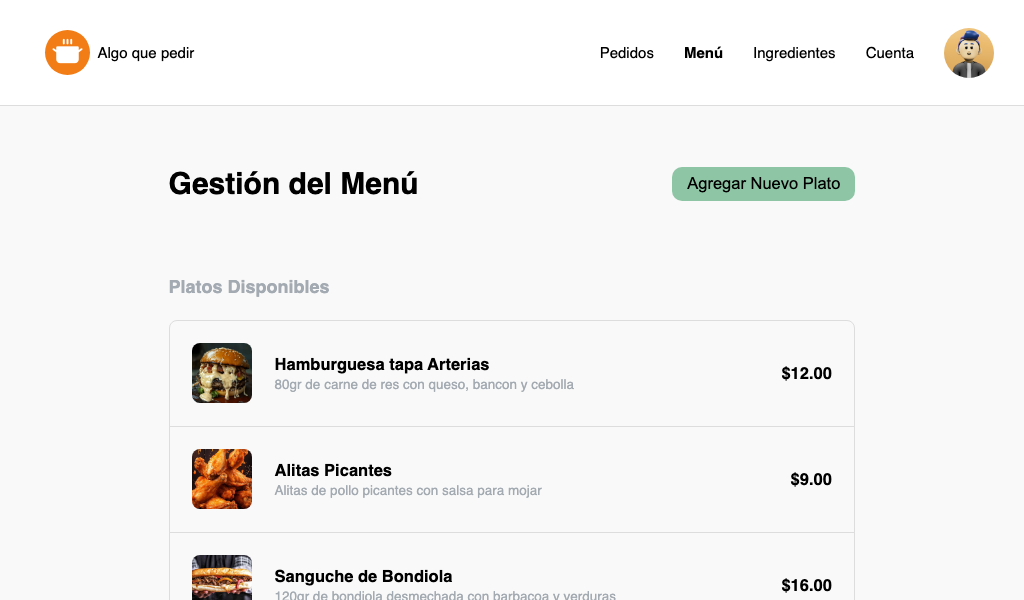
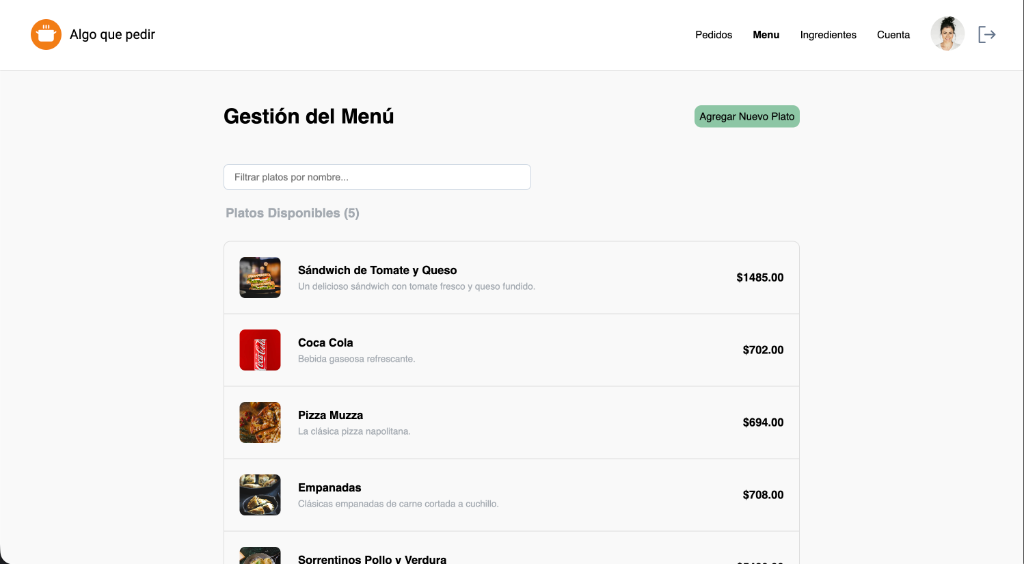
feat(projects): actualizar captura de AlgoQuePedir y distinguir proyectos como académicos

diff --git a/src/data/portfolioData.ts b/src/data/portfolioData.ts
@@ -335,19 +335,23 @@ export const portfolioData: PortfolioData = {
     {
       id: "studyquest",
       title: "StudyQuest",
-      category: ["Full-Stack", "AI"],
+      category: ["Full-Stack", "AI", "Académico"],
+      projectType: {
+        en: "Academic Project",
+        es: "Proyecto Académico",
+      },
       year: "2026",
       featured: true,
       status: "live",
       demoUrl: "https://lorengrz.github.io/StudyQuest/",
       githubUrl: "https://github.com/LorenGrz/StudyQuest",
       tagline: {
-        en: "Collaborative Study Platform with Real-Time Matchmaking & AI-Generated Quests",
-        es: "Plataforma de estudio colaborativo con matchmaking en tiempo real y quests generados por IA",
+        en: "Collaborative Study Platform with Real-Time Matchmaking & AI Quests — Academic Project",
+        es: "Plataforma de estudio colaborativo con matchmaking en tiempo real y quests por IA — Proyecto Académico",
       },
       description: {
-        en: "Full-stack collaborative study platform with real-time party matchmaking, study rooms, enriched chat, and AI-generated quizzes from notes or PDF files. Features a competitive ELO system, gamified leagues, leaderboards, and skill trees built with NestJS, React, PostgreSQL and WebSockets.",
-        es: "Plataforma full-stack de estudio colaborativo con matchmaking en tiempo real, salas de estudio (parties), chat enriquecido y quizzes/quests generados dinámicamente por IA a partir de apuntes o PDFs. Incluye sistema ELO competitivo, ligas gamificadas, leaderboards y árbol de habilidades — NestJS, React, PostgreSQL y WebSockets.",
+        en: "Academic project developed as a full-stack collaborative study platform with real-time party matchmaking, study rooms, enriched chat, and AI-generated quizzes from notes or PDF files. Features a competitive ELO system, gamified leagues, leaderboards, and skill trees built with NestJS, React, PostgreSQL and WebSockets.",
+        es: "Proyecto académico concebido como plataforma full-stack de estudio colaborativo con matchmaking en tiempo real, salas de estudio (parties), chat enriquecido y quizzes/quests generados por IA a partir de apuntes o PDFs. Incluye sistema ELO competitivo, ligas gamificadas, leaderboards y árbol de habilidades — NestJS, React, PostgreSQL y WebSockets.",
       },
       technologies: ["NestJS", "TypeScript", "React 19", "PostgreSQL", "TypeORM", "Socket.IO", "Gemini AI", "Zustand", "Tailwind CSS", "Docker", "Vite", "Framer Motion"],
       image: "/projects/studyquest.png",
@@ -383,19 +387,23 @@ export const portfolioData: PortfolioData = {
     {
       id: "booklibre",
       title: "BookLibre",
-      category: ["Full-Stack"],
+      category: ["Full-Stack", "Académico"],
+      projectType: {
+        en: "Academic Project",
+        es: "Proyecto Académico",
+      },
       year: "2026",
       featured: true,
       status: "coming_soon",
       demoUrl: undefined,
       githubUrl: "https://github.com/JulianBarberis",
       tagline: {
-        en: "DDD-driven Book Sharing Platform with Gamified Engine",
-        es: "Plataforma de libros basada en DDD con motor de reputación",
+        en: "DDD-driven Book Sharing Platform with Gamified Engine — Academic Project",
+        es: "Plataforma de libros basada en DDD con motor de reputación — Proyecto Académico",
       },
       description: {
-        en: "Full-stack book-sharing platform built with Kotlin, Spring Boot, React, and PostgreSQL using Domain-Driven Design (DDD).",
-        es: "Plataforma para compartir libros desarrollada con Kotlin, Spring Boot, React y PostgreSQL bajo principios DDD.",
+        en: "Academic project built as a full-stack book-sharing platform with Kotlin, Spring Boot, React, and PostgreSQL using Domain-Driven Design (DDD) principles.",
+        es: "Proyecto académico desarrollado como plataforma full-stack para compartir libros con Kotlin, Spring Boot, React y PostgreSQL bajo principios de Domain-Driven Design (DDD).",
       },
       technologies: ["Kotlin", "Spring Boot", "React", "PostgreSQL", "Flyway", "Docker", "JWT"],
       image: "/projects/booklibre.png",
@@ -425,19 +433,23 @@ export const portfolioData: PortfolioData = {
     {
       id: "sqlify",
       title: "SQLify",
-      category: ["Full-Stack", "AI"],
+      category: ["Full-Stack", "AI", "Académico"],
+      projectType: {
+        en: "Academic Project",
+        es: "Proyecto Académico",
+      },
       year: "2025",
       featured: true,
       status: "live",
       demoUrl: "https://sq-lify-sandy.vercel.app/",
       githubUrl: "https://github.com/JulianBarberis/SQLify",
       tagline: {
-        en: "Natural Language to SQL Query Engine with Google Gemini AI",
-        es: "Traductor de lenguaje natural a SQL con Google Gemini AI",
+        en: "Natural Language to SQL Query Engine with Google Gemini AI — Academic Project",
+        es: "Traductor de lenguaje natural a SQL con Google Gemini AI — Proyecto Académico",
       },
       description: {
-        en: "Full-stack application using React, TypeScript, Express, and MySQL that translates natural queries into safe SQL using Gemini AI.",
-        es: "Aplicación full-stack en React, TypeScript, Express y MySQL que traduce preguntas a consultas SQL seguras con Gemini AI.",
+        en: "Academic full-stack application using React, TypeScript, Express, and MySQL that translates natural queries into safe SQL using Gemini AI.",
+        es: "Proyecto académico full-stack en React, TypeScript, Express y MySQL que traduce preguntas a consultas SQL seguras con Gemini AI.",
       },
       technologies: ["React", "TypeScript", "Node.js", "Express", "Gemini AI", "MySQL"],
       image: "/projects/sqlify.png",
@@ -467,19 +479,23 @@ export const portfolioData: PortfolioData = {
     {
       id: "algo-que-pedir",
       title: "AlgoQuePedir",
-      category: ["Full-Stack", "Backend"],
+      category: ["Full-Stack", "Backend", "Académico"],
+      projectType: {
+        en: "University Academic Project (UNSAM)",
+        es: "Proyecto Académico Universitario (UNSAM)",
+      },
       year: "2025",
       featured: true,
       status: "live",
       demoUrl: undefined,
       githubUrl: "https://github.com/JulianBarberis/JulianBarberis-AlgoQuePedir_Algoritmos2y3",
       tagline: {
-        en: "Order Management System with Advanced Data Structures — UNSAM Algorithms 2 & 3",
-        es: "Sistema de gestión de pedidos con estructuras de datos avanzadas — Algoritmos 2 y 3 UNSAM",
+        en: "Order Management System with Advanced Data Structures — UNSAM Algorithms 2 & 3 (Academic Project)",
+        es: "Sistema de gestión de pedidos con estructuras de datos avanzadas — Algoritmos 2 y 3 UNSAM (Proyecto Académico)",
       },
       description: {
-        en: "Academic project for the Algorithms 2 & 3 course at UNSAM. Implements a full order management system applying advanced data structures (trees, heaps, graphs) and algorithmic paradigms such as greedy, dynamic programming, and backtracking to solve real-world ordering and routing problems.",
-        es: "Proyecto académico para la materia Algoritmos 2 y 3 de la UNSAM. Implementa un sistema completo de gestión de pedidos aplicando estructuras de datos avanzadas (árboles, heaps, grafos) y paradigmas algorítmicos como greedy, programación dinámica y backtracking para resolver problemas reales de pedidos y ruteo.",
+        en: "University academic project for the Algorithms 2 & 3 course at UNSAM. Implements a full order management system applying advanced data structures (trees, heaps, graphs) and algorithmic paradigms such as greedy, dynamic programming, and backtracking to solve real-world ordering and routing problems.",
+        es: "Proyecto académico universitario para la materia Algoritmos 2 y 3 de la UNSAM. Implementa un sistema completo de gestión de pedidos aplicando estructuras de datos avanzadas (árboles, heaps, grafos) y paradigmas algorítmicos como greedy, programación dinámica y backtracking para resolver problemas reales de pedidos y ruteo.",
       },
       technologies: ["Kotlin", "Data Structures", "Graphs", "Algorithms", "OOP", "UNSAM"],
       image: "/projects/algo-que-pedir.png",

diff --git a/src/components/ProjectModal.tsx b/src/components/ProjectModal.tsx
@@ -4,7 +4,7 @@ import React from "react";
 import Image from "next/image";
 import { useLanguage } from "@/context/LanguageContext";
 import { ProjectItem, normalizeCategories } from "@/data/types";
-import { X, ExternalLink, Layers, CheckCircle2, Rocket, Clock } from "lucide-react";
+import { X, ExternalLink, Layers, CheckCircle2, Rocket, Clock, GraduationCap } from "lucide-react";
 import { GitHubIcon } from "@/components/icons/SocialIcons";
 import {
   sanitizeExternalUrl,
@@ -52,14 +52,33 @@ export default function ProjectModal({ project, onClose }: ProjectModalProps) {
         <div className="flex items-start justify-between gap-3 pb-3 border-b border-black/5 dark:border-white/10">
           <div>
             <div className="flex flex-wrap items-center gap-1.5">
-              {categories.map((cat) => (
-                <span
-                  key={cat}
-                  className="px-2.5 py-0.5 rounded-full text-[11px] font-mono font-bold uppercase tracking-wider bg-[#f8559f]/10 text-[#f8559f] border border-[#f8559f]/20"
-                >
-                  {cat}
-                </span>
-              ))}
+              {categories.map((cat) => {
+                const isAcademic = cat === "Académico";
+                const label =
+                  isAcademic
+                    ? language === "es"
+                      ? "Académico"
+                      : "Academic"
+                    : cat === "AI"
+                    ? language === "es"
+                      ? "IA"
+                      : "AI"
+                    : cat;
+
+                return (
+                  <span
+                    key={cat}
+                    className={`inline-flex items-center gap-1 px-2.5 py-0.5 rounded-full text-[11px] font-mono font-bold uppercase tracking-wider ${
+                      isAcademic
+                        ? "bg-purple-500/15 text-purple-600 dark:text-purple-300 border border-purple-500/30"
+                        : "bg-[#f8559f]/10 text-[#f8559f] border border-[#f8559f]/20"
+                    }`}
+                  >
+                    {isAcademic && <GraduationCap className="w-3 h-3" />}
+                    <span>{label}</span>
+                  </span>
+                );
+              })}
               <span className="text-xs font-mono text-[var(--text-muted)] ml-0.5">
                 {project.year}
               </span>
@@ -67,7 +86,13 @@ export default function ProjectModal({ project, onClose }: ProjectModalProps) {
             <h3 className="text-xl sm:text-2xl font-bold text-[var(--text-primary)] mt-1">
               {project.title}
             </h3>
-            <p className="text-xs sm:text-sm font-medium text-[#3744bd] dark:text-[#93c5fd]">
+            {project.projectType && (
+              <div className="inline-flex items-center gap-1.5 text-xs font-semibold text-purple-600 dark:text-purple-300 mt-0.5">
+                <GraduationCap className="w-3.5 h-3.5 shrink-0" />
+                <span>{t(project.projectType)}</span>
+              </div>
+            )}
+            <p className="text-xs sm:text-sm font-medium text-[#3744bd] dark:text-[#93c5fd] mt-1">
               {t(project.tagline)}
             </p>
           </div>

diff --git a/src/components/carousel/ProjectCard.tsx b/src/components/carousel/ProjectCard.tsx
@@ -5,7 +5,7 @@ import { ProjectItem, normalizeCategories } from "@/data/types";
 import { useLanguage } from "@/context/LanguageContext";
 import TechIcon from "@/components/TechIcon";
 import { GitHubIcon } from "@/components/icons/SocialIcons";
-import { ExternalLink, Rocket, Clock } from "lucide-react";
+import { ExternalLink, Rocket, Clock, GraduationCap } from "lucide-react";
 import { sanitizeExternalUrl, isSafeExternalUrl } from "@/lib/utils";
 
 interface ProjectCardProps {
@@ -44,14 +44,33 @@ export default function ProjectCard({
         {/* Category & Status */}
         <div className="flex items-center justify-between gap-2 pt-1">
           <div className="flex flex-wrap items-center gap-1.5">
-            {categories.map((cat) => (
-              <span
-                key={cat}
-                className="px-2 py-0.5 rounded-full text-[10px] font-mono font-bold uppercase tracking-wider text-[#3744bd] dark:text-[#93c5fd] bg-indigo-500/10 dark:bg-indigo-500/20 border border-indigo-500/20 dark:border-indigo-400/30"
-              >
-                {cat}
-              </span>
-            ))}
+            {categories.map((cat) => {
+              const isAcademic = cat === "Académico";
+              const label =
+                isAcademic
+                  ? language === "es"
+                    ? "Académico"
+                    : "Academic"
+                  : cat === "AI"
+                  ? language === "es"
+                    ? "IA"
+                    : "AI"
+                  : cat;
+
+              return (
+                <span
+                  key={cat}
+                  className={`inline-flex items-center gap-1 px-2 py-0.5 rounded-full text-[10px] font-mono font-bold uppercase tracking-wider ${
+                    isAcademic
+                      ? "text-purple-600 dark:text-purple-300 bg-purple-500/10 dark:bg-purple-500/20 border border-purple-500/20 dark:border-purple-400/30"
+                      : "text-[#3744bd] dark:text-[#93c5fd] bg-indigo-500/10 dark:bg-indigo-500/20 border border-indigo-500/20 dark:border-indigo-400/30"
+                  }`}
+                >
+                  {isAcademic && <GraduationCap className="w-2.5 h-2.5" />}
+                  <span>{label}</span>
+                </span>
+              );
+            })}
           </div>
 
           <div className="shrink-0">

diff --git a/src/components/Projects.tsx b/src/components/Projects.tsx
@@ -88,8 +88,18 @@ export default function Projects() {
     Math.max(0, filteredProjects.length - 1)
   );
 
-  const handleCategoryChange = (cat: string) => {
-    setActiveCategory(cat);
+  const toTabId = (cat: string) =>
+    `project-tab-${cat.toLowerCase().normalize("NFD").replace(/[\u0300-\u036f]/g, "").replace(/\s+/g, "-")}`;
+
+  const getCategoryLabel = (cat: string) => {
+    if (cat === "All") return language === "es" ? "Todos" : "All";
+    if (cat === "AI") return language === "es" ? "IA" : "AI";
+    if (cat === "Académico") return language === "es" ? "Académico" : "Academic";
+    return cat;
+  };
+
+  const handleCategoryChange = (category: string) => {
+    setActiveCategory(category);
     setActiveIndex(0);
   };
 
@@ -119,7 +129,7 @@ export default function Projects() {
     if (nextIndex !== -1) {
       const nextCategory = categories[nextIndex];
       handleCategoryChange(nextCategory);
-      const nextTabId = `project-tab-${nextCategory.toLowerCase().replace(/\s+/g, "-")}`;
+      const nextTabId = toTabId(nextCategory);
       requestAnimationFrame(() => {
         document.getElementById(nextTabId)?.focus();
       });
@@ -194,7 +204,7 @@ export default function Projects() {
             return (
               <button
                 key={cat}
-                id={`project-tab-${cat.toLowerCase().replace(/\s+/g, "-")}`}
+                id={toTabId(cat)}
                 role="tab"
                 aria-selected={isSelected}
                 tabIndex={isSelected ? 0 : -1}
@@ -206,7 +216,7 @@ export default function Projects() {
                     : "text-[var(--text-muted)] hover:text-[var(--text-primary)]"
                 }`}
               >
-                {cat === "All" ? (language === "es" ? "Todos" : "All") : cat}
+                {getCategoryLabel(cat)}
               </button>
             );
           })}
@@ -234,7 +244,7 @@ export default function Projects() {
           <div
             id="projects-tabpanel"
             role="tabpanel"
-            aria-labelledby={`project-tab-${activeCategory.toLowerCase().replace(/\s+/g, "-")}`}
+            aria-labelledby={toTabId(activeCategory)}
             className="relative w-full"
           >
             <AnimatePresence mode="wait">

diff --git a/src/data/types.ts b/src/data/types.ts
@@ -47,7 +47,12 @@ export interface SkillCategory {
   }[];
 }
 
-export type ProjectCategory = "Full-Stack" | "Backend" | "Frontend" | "AI";
+export type ProjectCategory =
+  | "Full-Stack"
+  | "Backend"
+  | "Frontend"
+  | "AI"
+  | "Académico";
 
 /**
  * Normalizes project category/categories input into a deduplicated, trimmed array of ProjectCategory.
@@ -85,6 +90,7 @@ export interface ProjectItem {
   roadmap?: LocalizedArray;
   image?: string;
   category: ProjectCategory | ProjectCategory[];
+  projectType?: LocalizedString;
 }
 
 export interface PortfolioData {
